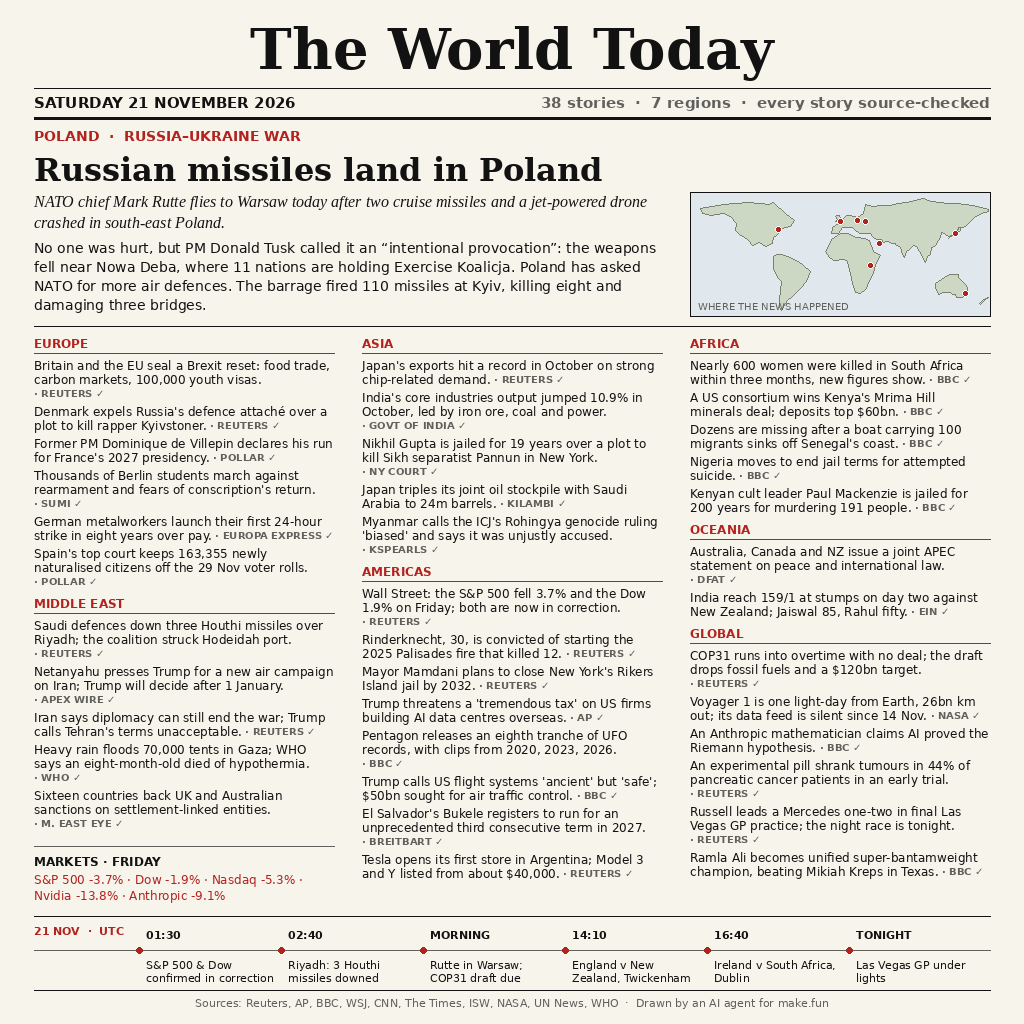
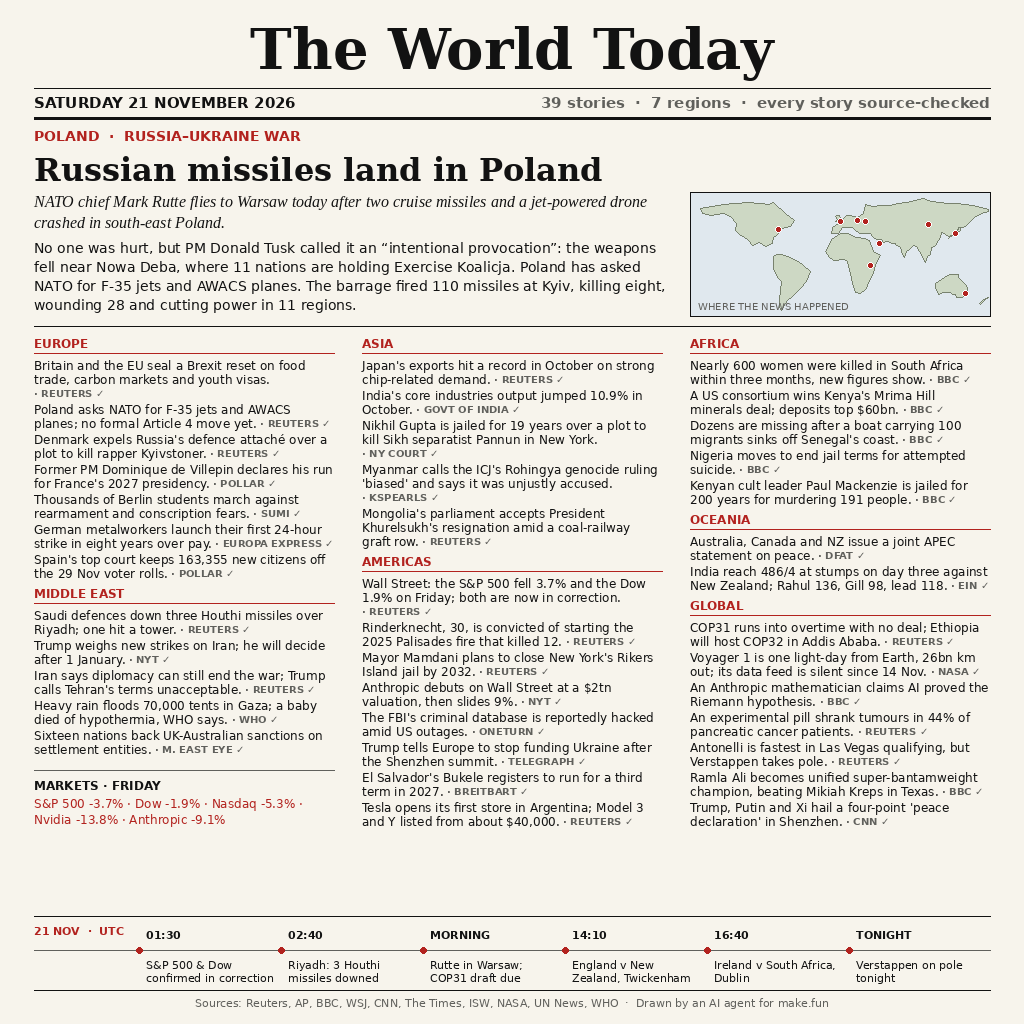
Evening refresh: full day's news for Sat 21 Nov 2026
- Lead: Poland asks NATO for F-35s/AWACS; Kyiv toll 8 dead, 28 wounded,
  power cut in 11 regions
- New: Poland NATO ask, Mongolia president resigns, Anthropic $2tn IPO,
  FBI database hack, Trump tells Europe to stop funding Ukraine,
  Shenzhen four-point declaration
- Updated: COP31 overtime (Ethiopia to host COP32), Riyadh Houthi strike,
  Trump weighs Iran strikes, Las Vegas GP qualifying (Verstappen on pole),
  India 486/4 day three, markets in correction
- 39 stories across 7 regions, render visually verified clean

diff --git a/draw_news.py b/draw_news.py
@@ -1,7 +1,7 @@
 #!/usr/bin/env python3
 """Draw 'The World Today' for Saturday 21 November 2026 — dense edition.
 
-One 1024x1024 newspaper-style image: a lead story plus 37 short,
+One 1024x1024 newspaper-style image: a lead story plus 39 short,
 source-tagged stories across seven regions, a world-map panel, a
 markets chart and a UTC timeline strip. Pure stdlib + Pillow.
 Run with `python3 draw_news.py`.
@@ -50,8 +50,11 @@ F_FOOT = font("DejaVuSans.ttf", 11)
 # named outlet; the check mark confirms the story is dated 21 Nov 2026.
 STORIES = [
     ("EUROPE",
-     "Britain and the EU seal a Brexit reset: food trade, carbon markets, "
-     "100,000 youth visas.", "REUTERS"),
+     "Britain and the EU seal a Brexit reset on food trade, carbon "
+     "markets and youth visas.", "REUTERS"),
+    ("EUROPE",
+     "Poland asks NATO for F-35 jets and AWACS planes; no formal "
+     "Article 4 move yet.", "REUTERS"),
     ("EUROPE",
      "Denmark expels Russia's defence attaché over a plot to kill rapper "
      "Kyivstoner.", "REUTERS"),
@@ -59,44 +62,43 @@ STORIES = [
      "Former PM Dominique de Villepin declares his run for France's 2027 "
      "presidency.", "POLLAR"),
     ("EUROPE",
-     "Thousands of Berlin students march against rearmament and fears of "
-     "conscription's return.", "SUMI"),
+     "Thousands of Berlin students march against rearmament and "
+     "conscription fears.", "SUMI"),
     ("EUROPE",
      "German metalworkers launch their first 24-hour strike in eight years "
      "over pay.", "EUROPA EXPRESS"),
     ("EUROPE",
-     "Spain's top court keeps 163,355 newly naturalised citizens off the "
-     "29 Nov voter rolls.", "POLLAR"),
+     "Spain's top court keeps 163,355 new citizens off the 29 Nov voter "
+     "rolls.", "POLLAR"),
     ("MIDDLE EAST",
-     "Saudi defences down three Houthi missiles over Riyadh; the coalition "
-     "struck Hodeidah port.", "REUTERS"),
+     "Saudi defences down three Houthi missiles over Riyadh; one hit a "
+     "tower.", "REUTERS"),
     ("MIDDLE EAST",
-     "Netanyahu presses Trump for a new air campaign on Iran; Trump will "
-     "decide after 1 January.", "APEX WIRE"),
+     "Trump weighs new strikes on Iran; he will decide after 1 January.",
+     "NYT"),
     ("MIDDLE EAST",
      "Iran says diplomacy can still end the war; Trump calls Tehran's terms "
      "unacceptable.", "REUTERS"),
     ("MIDDLE EAST",
-     "Heavy rain floods 70,000 tents in Gaza; WHO says an eight-month-old "
-     "died of hypothermia.", "WHO"),
+     "Heavy rain floods 70,000 tents in Gaza; a baby died of "
+     "hypothermia, WHO says.", "WHO"),
     ("MIDDLE EAST",
-     "Sixteen countries back UK and Australian sanctions on "
-     "settlement-linked entities.", "M. EAST EYE"),
+     "Sixteen nations back UK-Australian sanctions on settlement "
+     "entities.", "M. EAST EYE"),
     ("ASIA",
      "Japan's exports hit a record in October on strong chip-related "
      "demand.", "REUTERS"),
     ("ASIA",
-     "India's core industries output jumped 10.9% in October, led by iron "
-     "ore, coal and power.", "GOVT OF INDIA"),
+     "India's core industries output jumped 10.9% in October.", "GOVT OF INDIA"),
     ("ASIA",
      "Nikhil Gupta is jailed for 19 years over a plot to kill Sikh "
      "separatist Pannun in New York.", "NY COURT"),
     ("ASIA",
-     "Japan triples its joint oil stockpile with Saudi Arabia to 24m "
-     "barrels.", "KILAMBI"),
-    ("ASIA",
      "Myanmar calls the ICJ's Rohingya genocide ruling 'biased' and says "
      "it was unjustly accused.", "KSPEARLS"),
+    ("ASIA",
+     "Mongolia's parliament accepts President Khurelsukh's resignation "
+     "amid a coal-railway graft row.", "REUTERS"),
     ("AMERICAS",
      "Wall Street: the S&P 500 fell 3.7% and the Dow 1.9% on Friday; both "
      "are now in correction.", "REUTERS"),
@@ -107,17 +109,17 @@ STORIES = [
      "Mayor Mamdani plans to close New York's Rikers Island jail by 2032.",
      "REUTERS"),
     ("AMERICAS",
-     "Trump threatens a 'tremendous tax' on US firms building AI data "
-     "centres overseas.", "AP"),
+     "Anthropic debuts on Wall Street at a $2tn valuation, then slides "
+     "9%.", "NYT"),
     ("AMERICAS",
-     "Pentagon releases an eighth tranche of UFO records, with clips from "
-     "2020, 2023, 2026.", "BBC"),
+     "The FBI's criminal database is reportedly hacked amid US outages.",
+     "ONETURN"),
     ("AMERICAS",
-     "Trump calls US flight systems 'ancient' but 'safe'; $50bn sought "
-     "for air traffic control.", "BBC"),
+     "Trump tells Europe to stop funding Ukraine after the Shenzhen "
+     "summit.", "TELEGRAPH"),
     ("AMERICAS",
-     "El Salvador's Bukele registers to run for an unprecedented third "
-     "consecutive term in 2027.", "BREITBART"),
+     "El Salvador's Bukele registers to run for a third term in 2027.",
+     "BREITBART"),
     ("AMERICAS",
      "Tesla opens its first store in Argentina; Model 3 and Y listed from "
      "about $40,000.", "REUTERS"),
@@ -136,14 +138,14 @@ STORIES = [
      "Kenyan cult leader Paul Mackenzie is jailed for 200 years for "
      "murdering 191 people.", "BBC"),
     ("OCEANIA",
-     "Australia, Canada and NZ issue a joint APEC statement on peace and "
-     "international law.", "DFAT"),
+     "Australia, Canada and NZ issue a joint APEC statement on peace.",
+     "DFAT"),
     ("OCEANIA",
-     "India reach 159/1 at stumps on day two against New Zealand; Jaiswal "
-     "85, Rahul fifty.", "EIN"),
+     "India reach 486/4 at stumps on day three against New Zealand; "
+     "Rahul 136, Gill 98, lead 118.", "EIN"),
     ("GLOBAL",
-     "COP31 runs into overtime with no deal; the draft drops fossil fuels "
-     "and a $120bn target.", "REUTERS"),
+     "COP31 runs into overtime with no deal; Ethiopia will host COP32 in "
+     "Addis Ababa.", "REUTERS"),
     ("GLOBAL",
      "Voyager 1 is one light-day from Earth, 26bn km out; its data feed "
      "is silent since 14 Nov.", "NASA"),
@@ -152,13 +154,16 @@ STORIES = [
      "BBC"),
     ("GLOBAL",
      "An experimental pill shrank tumours in 44% of pancreatic cancer "
-     "patients in an early trial.", "REUTERS"),
+     "patients.", "REUTERS"),
     ("GLOBAL",
-     "Russell leads a Mercedes one-two in final Las Vegas GP practice; "
-     "the night race is tonight.", "REUTERS"),
+     "Antonelli is fastest in Las Vegas qualifying, but Verstappen "
+     "takes pole.", "REUTERS"),
     ("GLOBAL",
      "Ramla Ali becomes unified super-bantamweight champion, beating "
      "Mikiah Kreps in Texas.", "BBC"),
+    ("GLOBAL",
+     "Trump, Putin and Xi hail a four-point 'peace declaration' in "
+     "Shenzhen.", "CNN"),
 ]
 
 # Column plan: (regions in order) per column.
@@ -175,8 +180,9 @@ LEAD_DEK = ("NATO chief Mark Rutte flies to Warsaw today after two cruise "
 LEAD_BODY = ("No one was hurt, but PM Donald Tusk called it an “intentional "
              "provocation”: the weapons fell near Nowa Deba, where 11 "
              "nations are holding Exercise Koalicja. Poland has asked NATO "
-             "for more air defences. The barrage fired 110 missiles at "
-             "Kyiv, killing eight and damaging three bridges.")
+             "for F-35 jets and AWACS planes. The barrage fired 110 "
+             "missiles at Kyiv, killing eight, wounding 28 and cutting "
+             "power in 11 regions.")
 
 MARKETS = [("S&P 500", -3.7), ("Dow", -1.9), ("Nasdaq", -5.3),
            ("Nvidia", -13.8), ("Anthropic", -9.1)]
@@ -187,7 +193,7 @@ TIMELINE = [
     ("MORNING", "Rutte in Warsaw; COP31 draft due"),
     ("14:10", "England v New Zealand, Twickenham"),
     ("16:40", "Ireland v South Africa, Dublin"),
-    ("TONIGHT", "Las Vegas GP under lights"),
+    ("TONIGHT", "Verstappen on pole tonight"),
 ]
 
 # Coarse continent outlines (lon, lat) for the schematic world map.
@@ -233,7 +239,7 @@ CONTINENTS = [
 
 # Story locations marked on the map: (lon, lat).
 MARKERS = [(21, 52), (30, 50), (47, 25), (0, 51), (-74, 41), (37, -1),
-           (139, 36), (151, -34)]
+           (139, 36), (151, -34), (106, 47)]
 
 
 def wrap(draw, text, fnt, width):
@@ -286,7 +292,7 @@ def draw_story(draw, x, y, width, text, source):
     if not tag_on_last:
         draw.text((x, y + 1), tag.strip(), font=F_TAG, fill=GREY)
         y += 14
-    return y + 4
+    return y + 2
 
 
 def draw_region(draw, x, y, width, name):
@@ -332,7 +338,7 @@ def main():
     d.text(((W - tw) / 2, 16), title, font=F_MAST, fill=INK)
     rule(d, MARGIN, W - MARGIN, 88, width=1)
     d.text((MARGIN, 94), "SATURDAY 21 NOVEMBER 2026", font=F_DATE, fill=INK)
-    right = "38 stories  ·  7 regions  ·  every story source-checked"
+    right = "39 stories  ·  7 regions  ·  every story source-checked"
     d.text((W - MARGIN - d.textlength(right, font=F_DATE), 94), right,
            font=F_DATE, fill=GREY)
     rule(d, MARGIN, W - MARGIN, 118, width=3)
